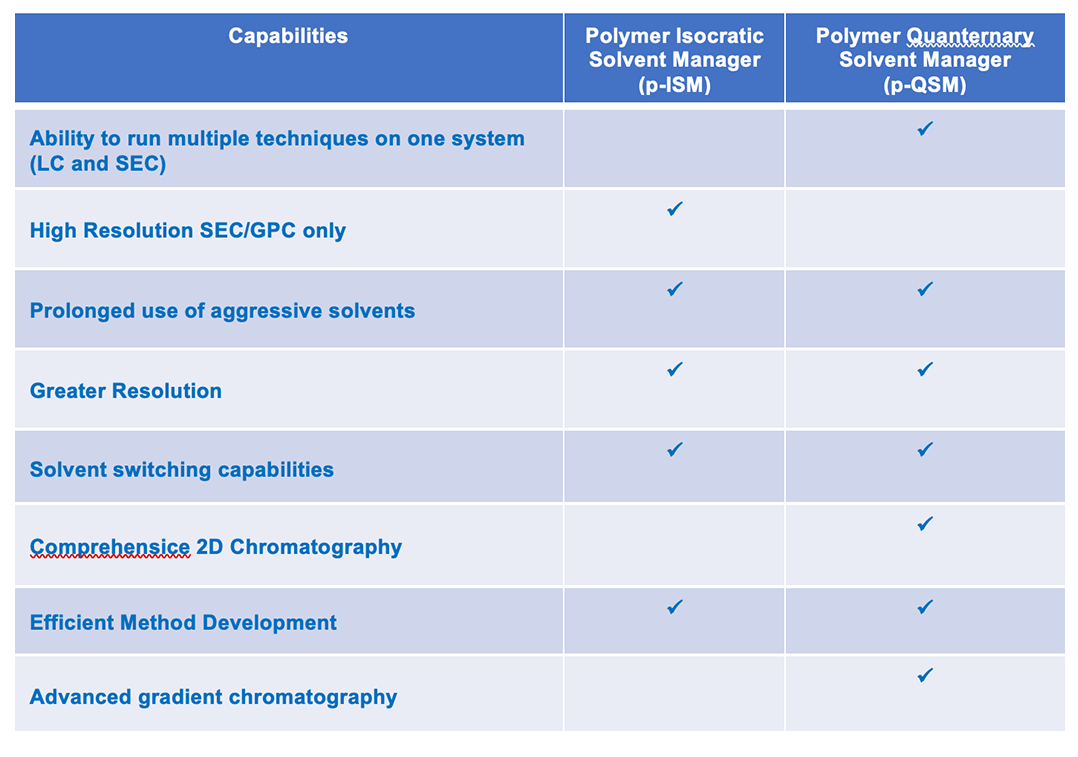
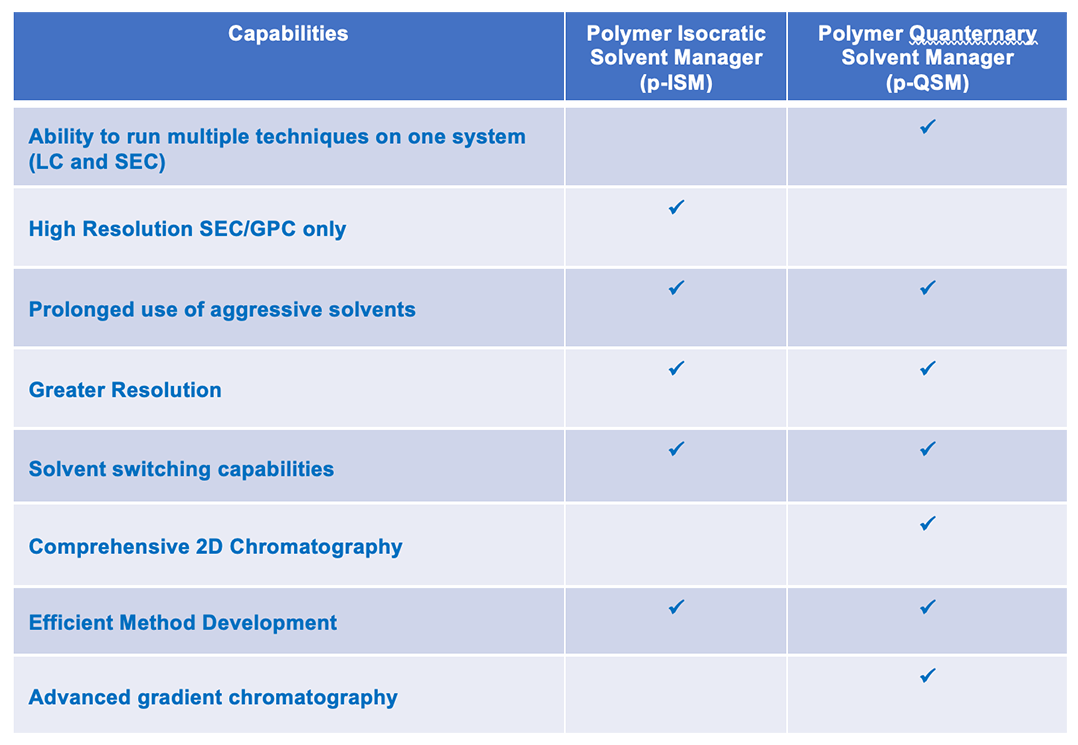
Hannah end updates..waiting on Tim and Troy

diff --git a/rheology/dhraccess/iec.html b/rheology/dhraccess/iec.html
@@ -69,6 +69,7 @@
                         (2) U.S. Patent # 7,926,326 
                             </div>
                             <div class="col-sm-7">
+                                        <img src="../../img/PNG/Exchange Cell Trough.png" style="width: 100%;">
 
                             </div>
                         </div>
@@ -80,7 +81,14 @@
 
                             </div>
                             <div class="col-sm-7">
-
+                                <div class="row mx-auto">
+                                    <div class="col-sm-6">
+                                        <img src="../../img/PNG/Double Wall Ring.png" style="width: 100%;">
+                                    </div>
+                                    <div class="col-sm-6">
+                                        <img src="../../img/PNG/Double Wall Ring-Illustration.png" style="width: 100%;">
+                                    </div>
+                                </div>
                             </div>
                         </div>
                         <br><br>
@@ -91,6 +99,7 @@
                                 
                             </div>
                             <div class="col-sm-7">
+                                        <img src="../../img/PNG/Syringe Pump.png" style="width: 100%;">
 
                             </div>
                         </div>

diff --git a/README.md b/README.md
@@ -1,20 +1,20 @@
 # PitConn App
  TA Instruments PitConn App
  ## Current Things to Address
- - [ ] Fix table for APC with spelling error
  - [ ] Hybrid Rheometer is missing a video
- - [ ] Interfacial Exchange cell technology tab might be missing images
  ## 
  - [ ] Get actual video for the inacitivity
  - [ ] Get rest of applications from product managers (mechanical testing)
  - [ ] Get new DHR video and put it on DHR page as well as vidoe library pages
- ## Resolved Issues(2/19/2020)
-  - [x] APC Video does not have a poster image
-  - [x] Advanced peltier plates temperature systems might be incomplete
-  - [x] Q5000 SA applications, might not be accurate
+ ## Resolved Issues(2/24/2020)
+ - [x] Fix table for APC with spelling error
+ - [x] Interfacial Exchange cell technology tab might be missing images
+ - [x] APC Video does not have a poster image
+ - [x] Advanced peltier plates temperature systems might be incomplete
+ - [x] Q5000 SA applications, might not be accurate
  - [x] Playback video on materials page fixed
-  - [x] Incorporate an inactivity video (implement throughout the app, use placeholder for now with a name that will work)
-  - [x] Finish the rheology applications, remove dhr ones from materials side 
+ - [x] Incorporate an inactivity video (implement throughout the app, use placeholder for now with a name that will work)
+ - [x] Finish the rheology applications, remove dhr ones from materials side 
  - [x] Change gas and energetic materials to oil gas and energetic materials
  - [X] Paints inks and coatings to lliquids paints andcoatings 
  - [x] Cosmetics last categories without any applications
